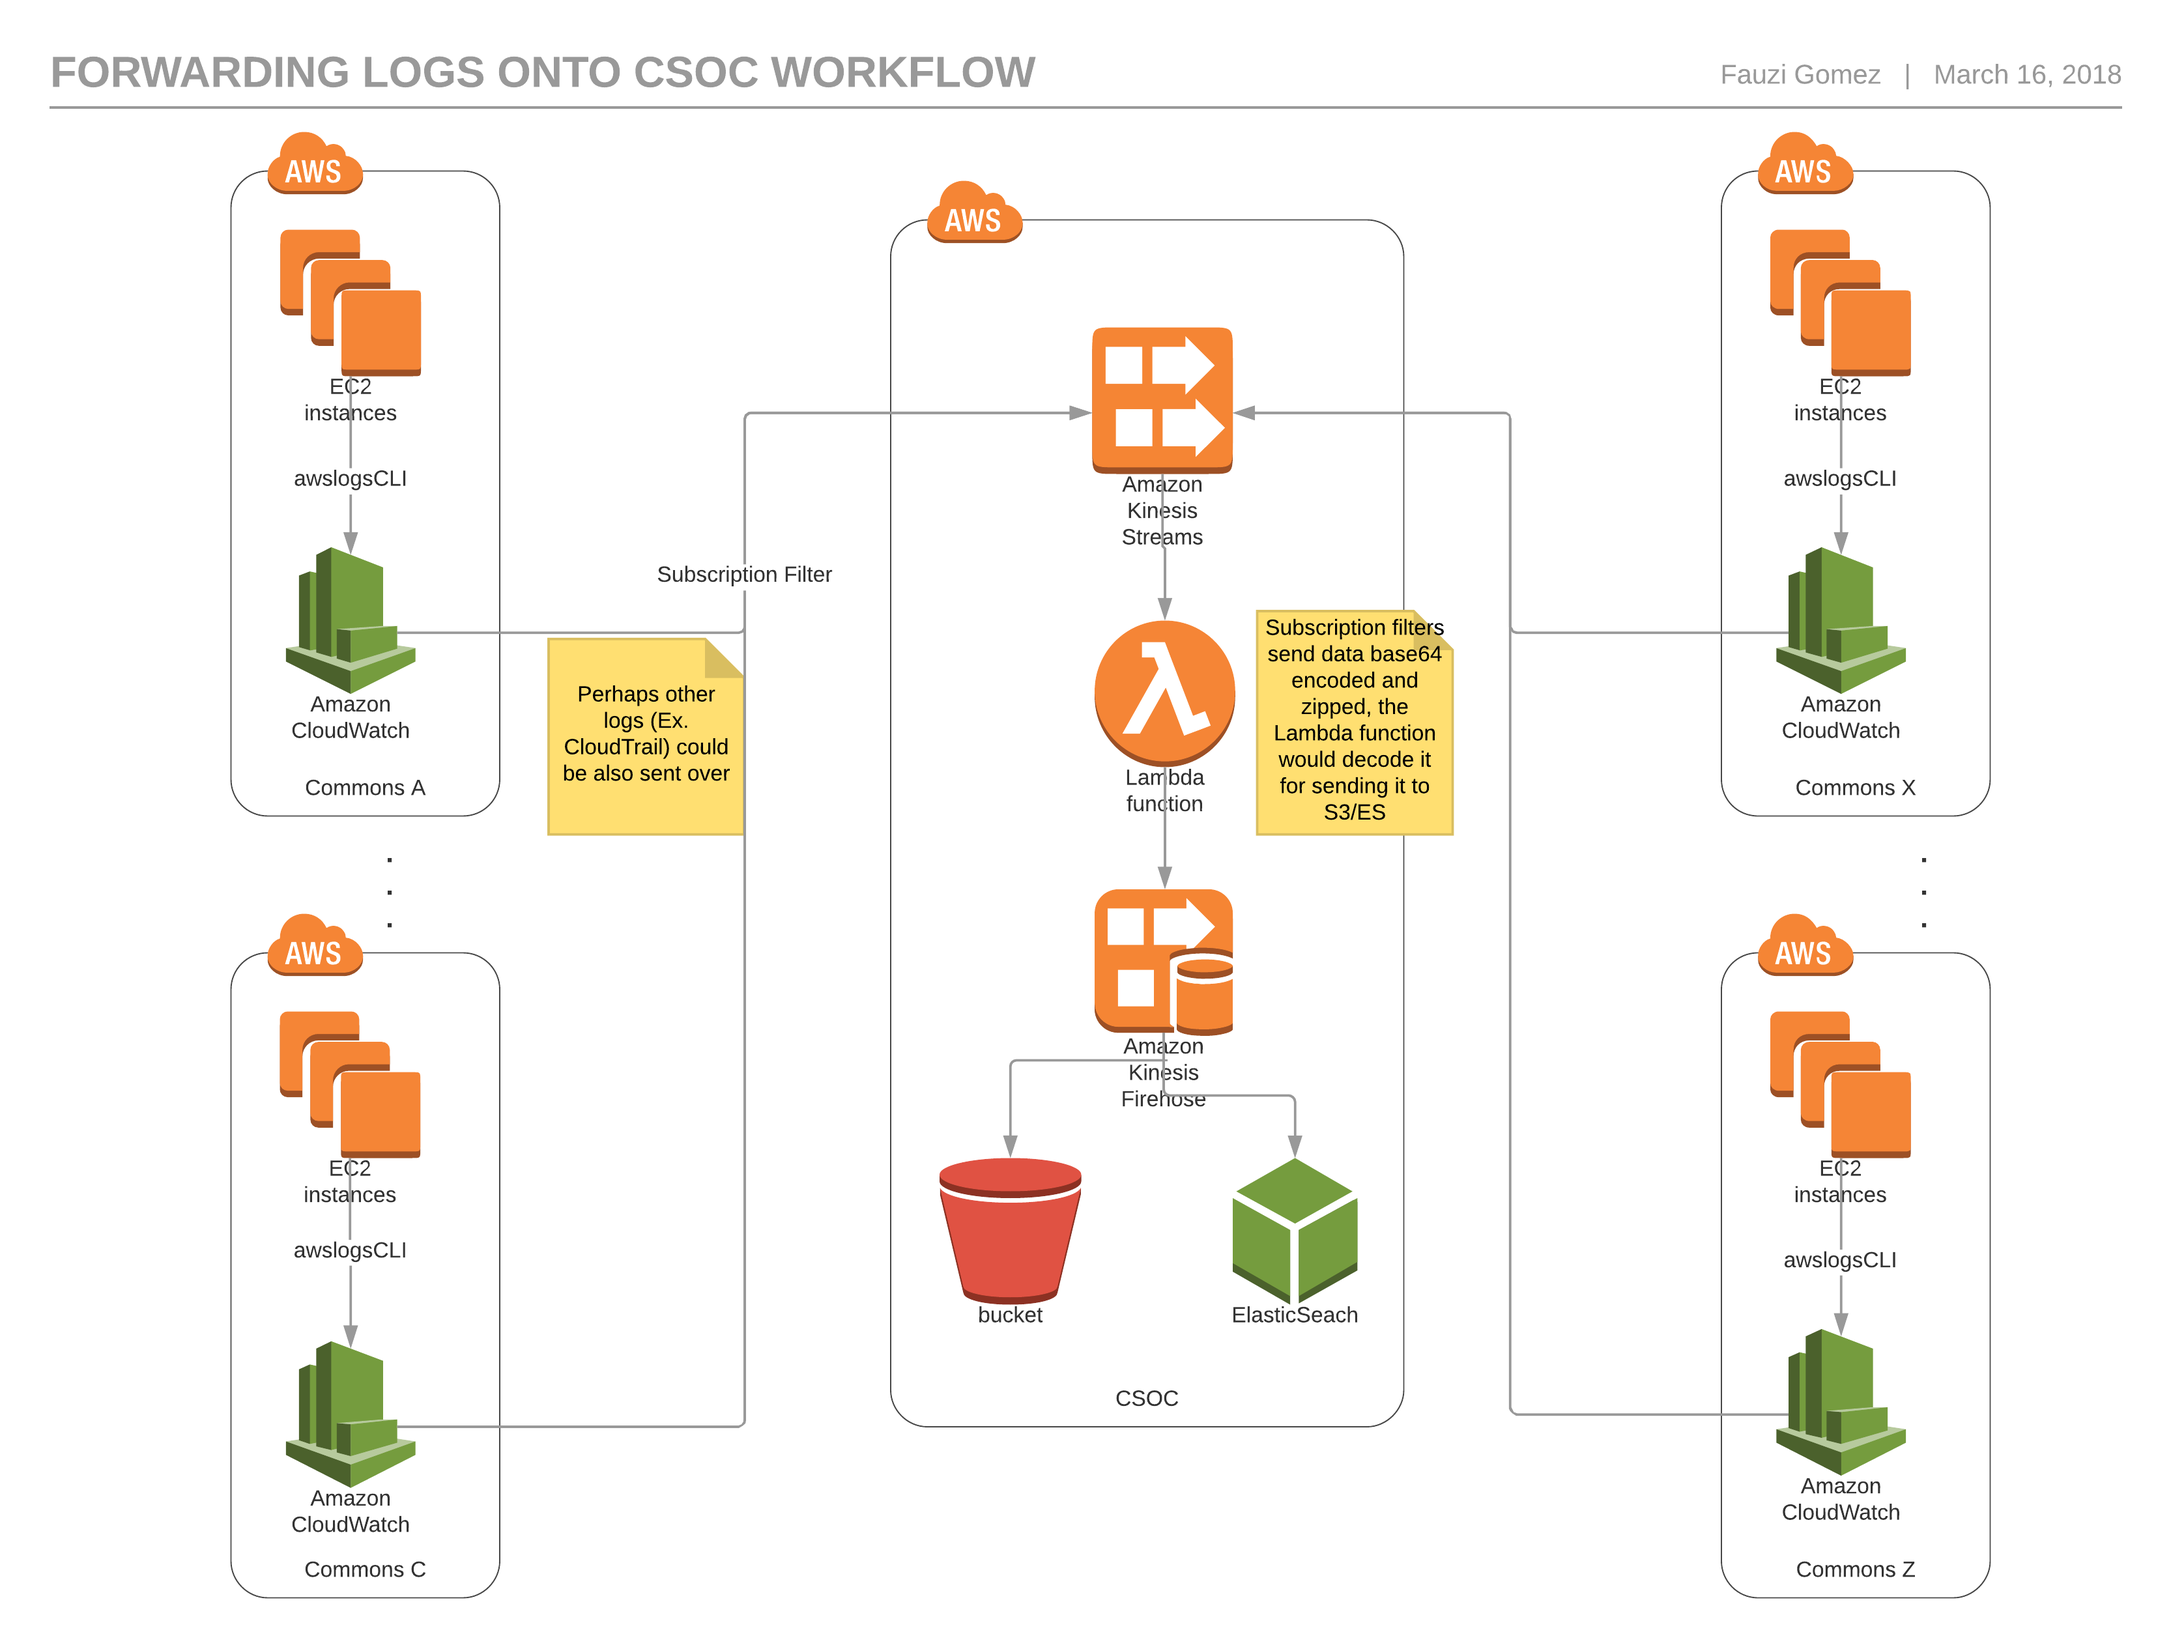
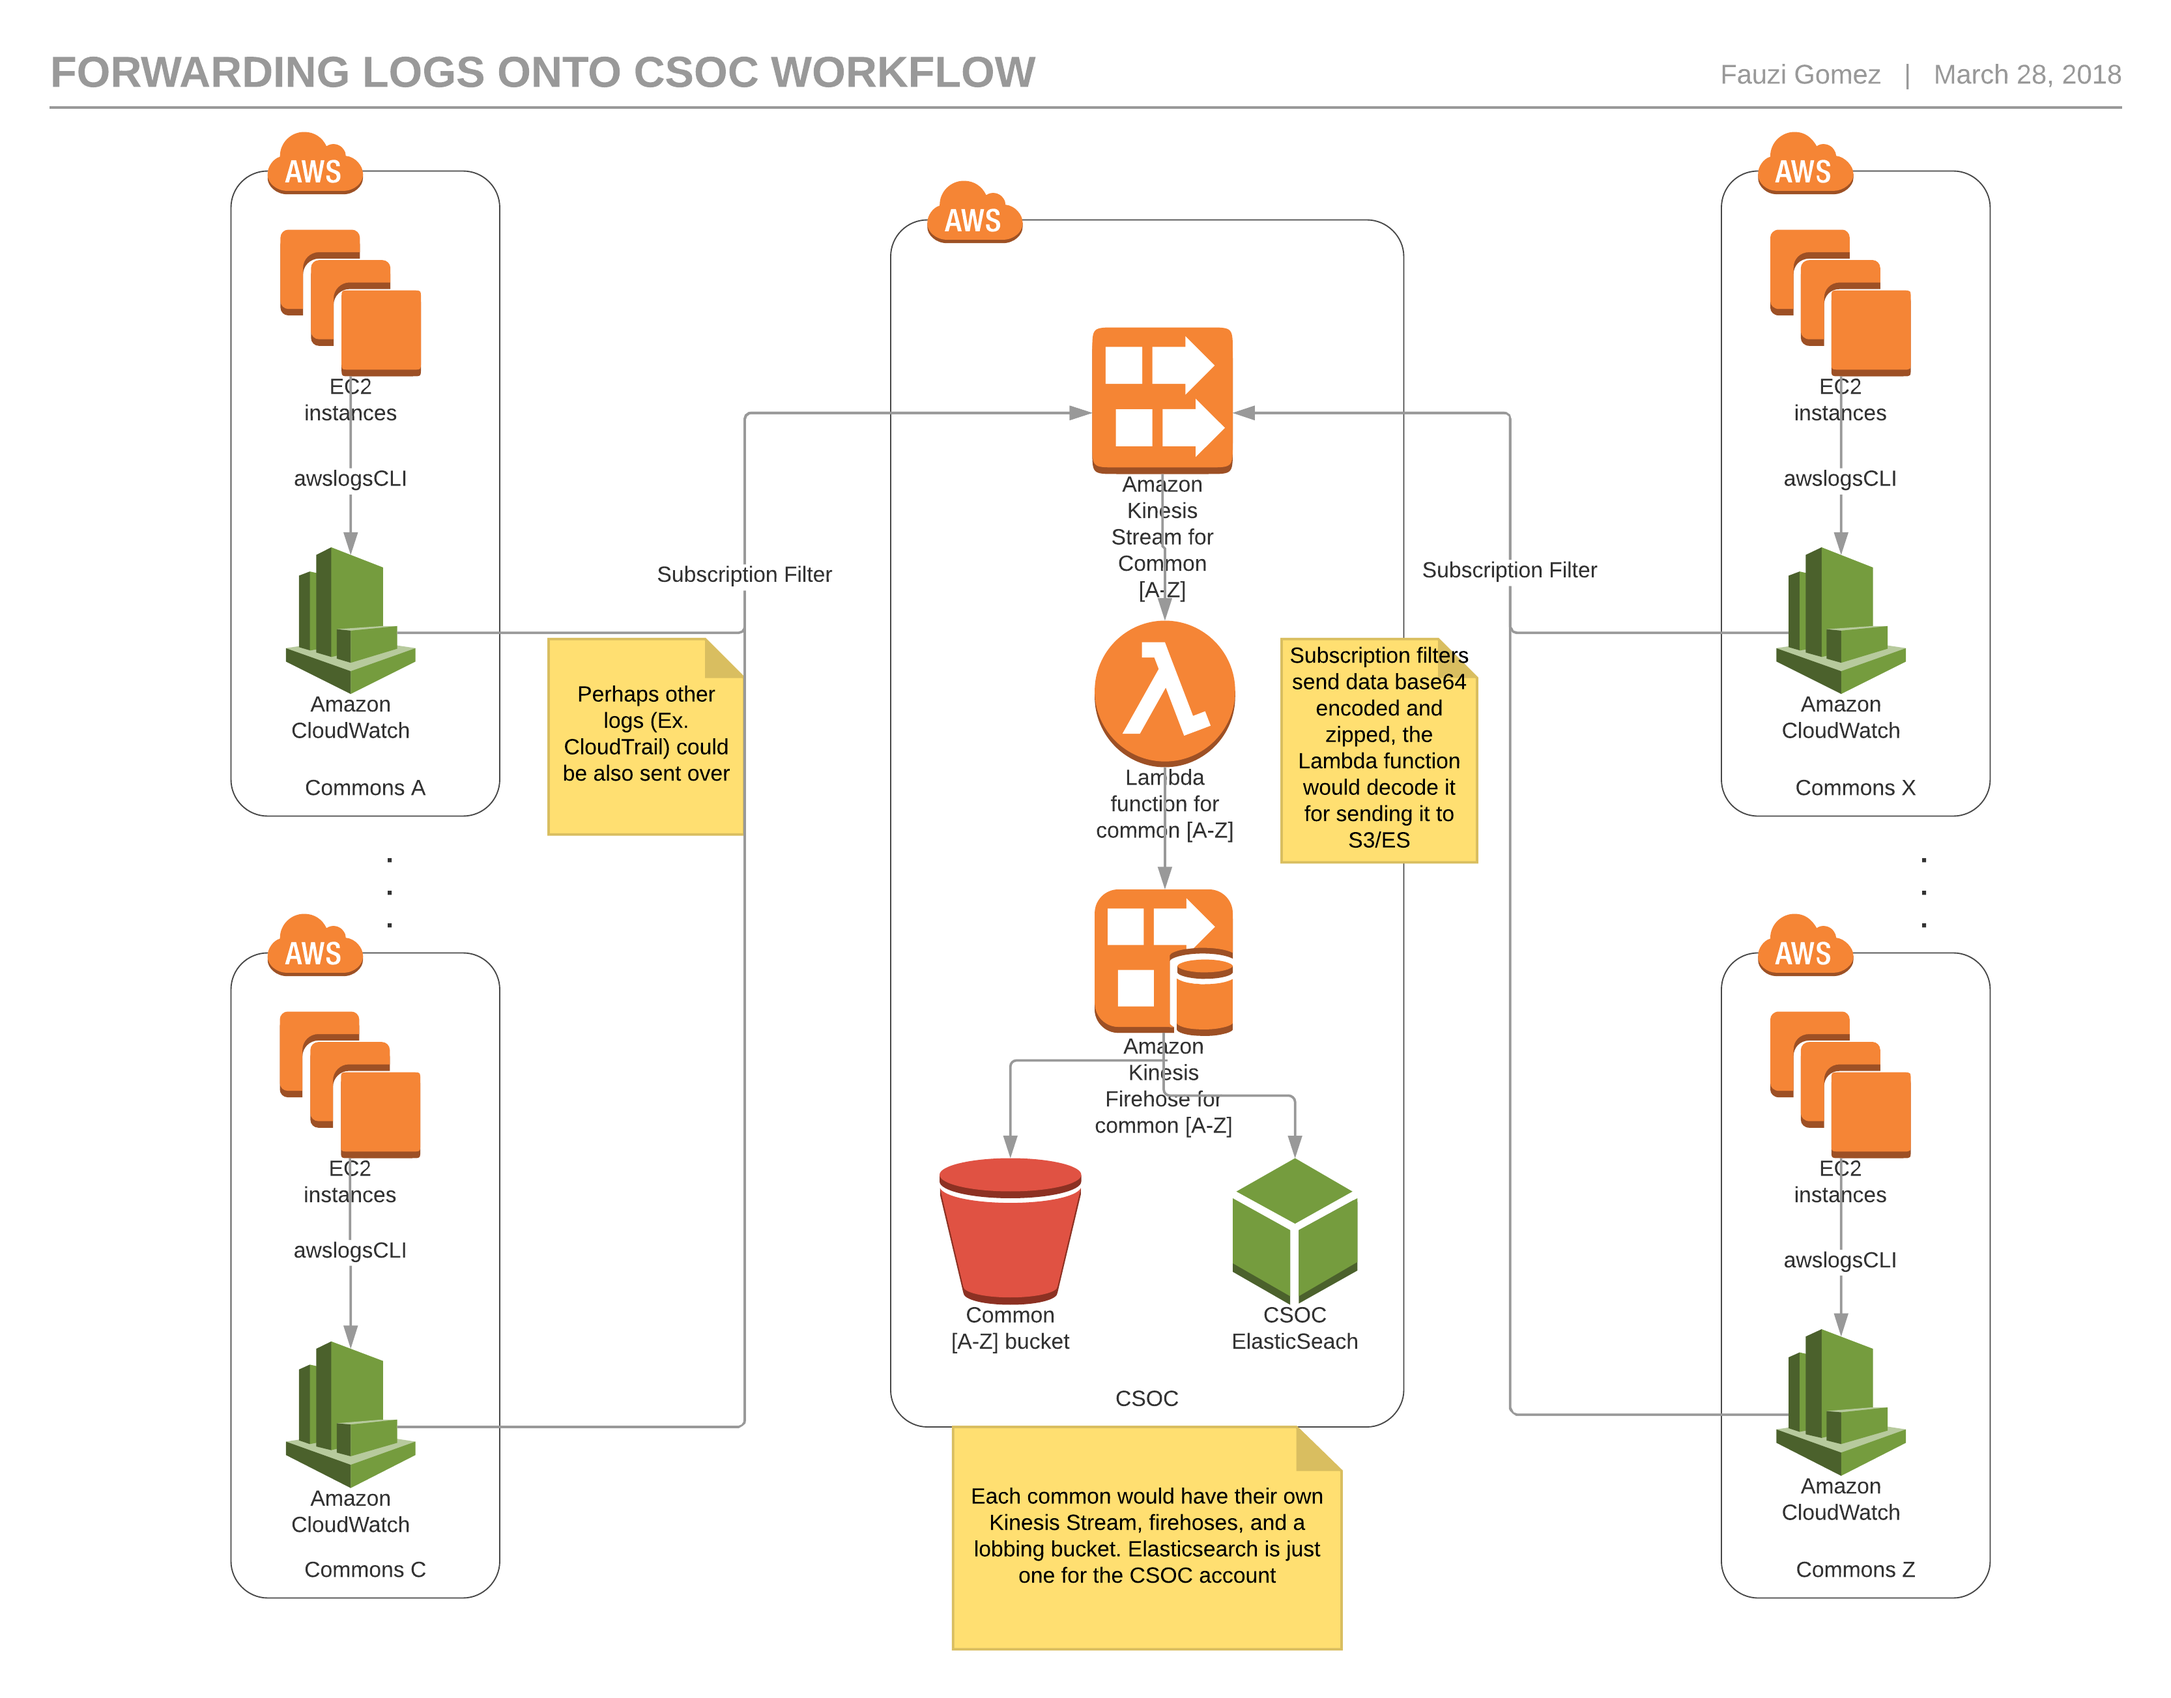
chore(documentation): more documentation

diff --git a/tf_files/modules/cdis-aws-common-logging/README.md b/tf_files/modules/cdis-aws-common-logging/README.md
@@ -14,6 +14,7 @@ gen3 workon csoc <commons account>
 - [2. Overview](#2-overview)
 - [3. Centralized  logging](#3-centralized-logging)
   - [3.1 How it works](#21-how-it-works)
+    - [3.1.1 JSON breakdown] (#311-json-breakdown)
 
 
 ## 2. Overview
@@ -32,12 +33,12 @@ Additionally, logs are also sent to ElasticSearch and S3 simultaneously. Elastic
 
 ![image of workflow](workflow.png)
 
-[Figure 1] Image of workflow reflects how the logs are sent from different account into this CSOC account and how the process is. 
+[Figure 1] Image of workflow reflects how the logs are sent from different accounts into the CSOC account and how the process is. 
 
 
 ### 3.1 How it works
 
-When logs come in through the data stream service it comes base64 encoded and zipped. We need to process it before sending it to ElasticSearch, otherwise it won't be properly interpretated and ultimately won't be inserted and create an index. 
+When logs come in through the data stream service, it comes base64 encoded and zipped. We need to process it before sending it to ElasticSearch, otherwise it won't be properly interpretated and ultimately won't be inserted and create an index. 
 
 An example how it is received:
 
@@ -50,7 +51,7 @@ An example how it is received:
       "kinesis": {
         "approximateArrivalTimestamp": 1428537600,
         "partitionKey": "partitionKey-3",
-        "data": "SGVsbG8sIHRoaXMgaXMgYSB0ZXN0IDEyMy4=",
[1 lines of base64/hex data omitted]
         "kinesisSchemaVersion": "1.0",
         "sequenceNumber": "49545115243490985018280067714973144582180062593244200961"
       },
@@ -68,3 +69,25 @@ An example how it is received:
 The actual data from child accountd is in the `data` part of the above JSON, the rest is added by the service which is also nice to have. The lamda function takes care of decoding the data and make it nice for ElasticSearch.
 
 Logs are being sent to S3 as well. There are multiple ways to store the data into S3, as it comes from the stream, or processed the same way we do for ElasticSearch. As for now, we are processing it so we don't need to decode/uncompress if we want/need to see the content.
+
+It worth mentioning that each common would have its own Kinesis Stream, lambda function, Firehoses, and S3 logging bucket. ElasticSearch endpoint is just one. The reason for this is to have more control when it requires to filtering, we can query ES easily and not the same for files within S3. And also, things are automates so, Why not?
+
+#### 3.1.1 JSON breakdown
+
+When data comes in, it's in form of Records, which is basically an array (list in python). Said array can be as long as it wants. 
+
+eventID				-> and Id given by kinesis which also add the shardID in use.
+eventVersion			-> self explanatory.
+kinesis				-> this is what actually comes in from the other account.
+  approximateArrivalTimestamp	-> timestamp when the stream reaches Kinesis.
+  partitionKey			-> yet another key value, not really healpful.
+  data				-> the data we want to decode and actually log into ES/S3
+  kinesisSchemaVersion		-> yet another version
+  sequenceNumber		-> an unique number for internal controls. A Kinesis thing.
+invokeIdentityArn		-> who invoked the stream (an AWS role ARN).
+eventName			-> self explanatory
+eventSourceARN			-> the stream ARN
+eventSource			-> self explanatory
+awsRegion			-> requires no explanation.
+
+For more deep info of what comes in and how it is formated, please checkout the lambda_function.py file. 
